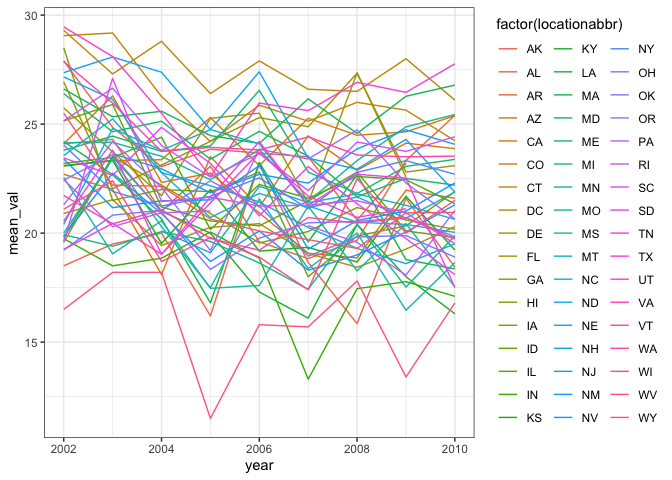
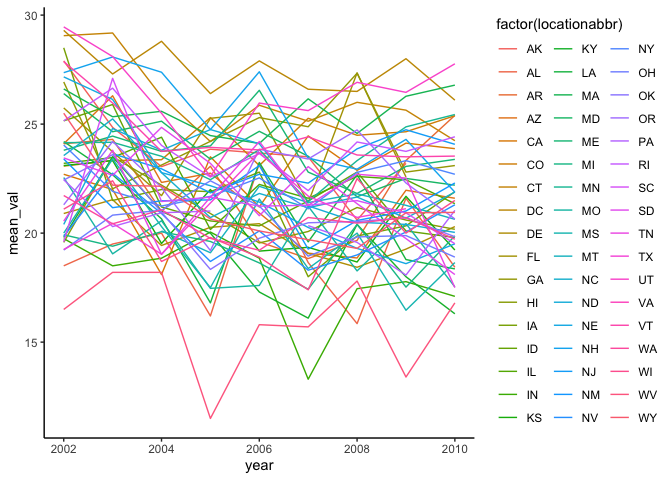
changes in the plot!

Changed region(s): [[0.0625, 0.9062, 0.6875, 0.9375], [0.0625, 0.0, 0.0938, 0.0312]]

diff --git a/p8105_hw3_Ec3342.md b/p8105_hw3_Ec3342.md
@@ -204,7 +204,7 @@ This spaghetti plot looks
 messy.
 
 ``` r
-ggplot(excellent, aes(x = year, y = mean_val, color = factor(locationabbr))) +   geom_line() +   theme_bw()
+ggplot(excellent, aes(x = year, y = mean_val, color = factor(locationabbr))) +   geom_line() +   theme_classic()
 ```
 
     ## Warning: Removed 3 rows containing missing values (geom_path).
